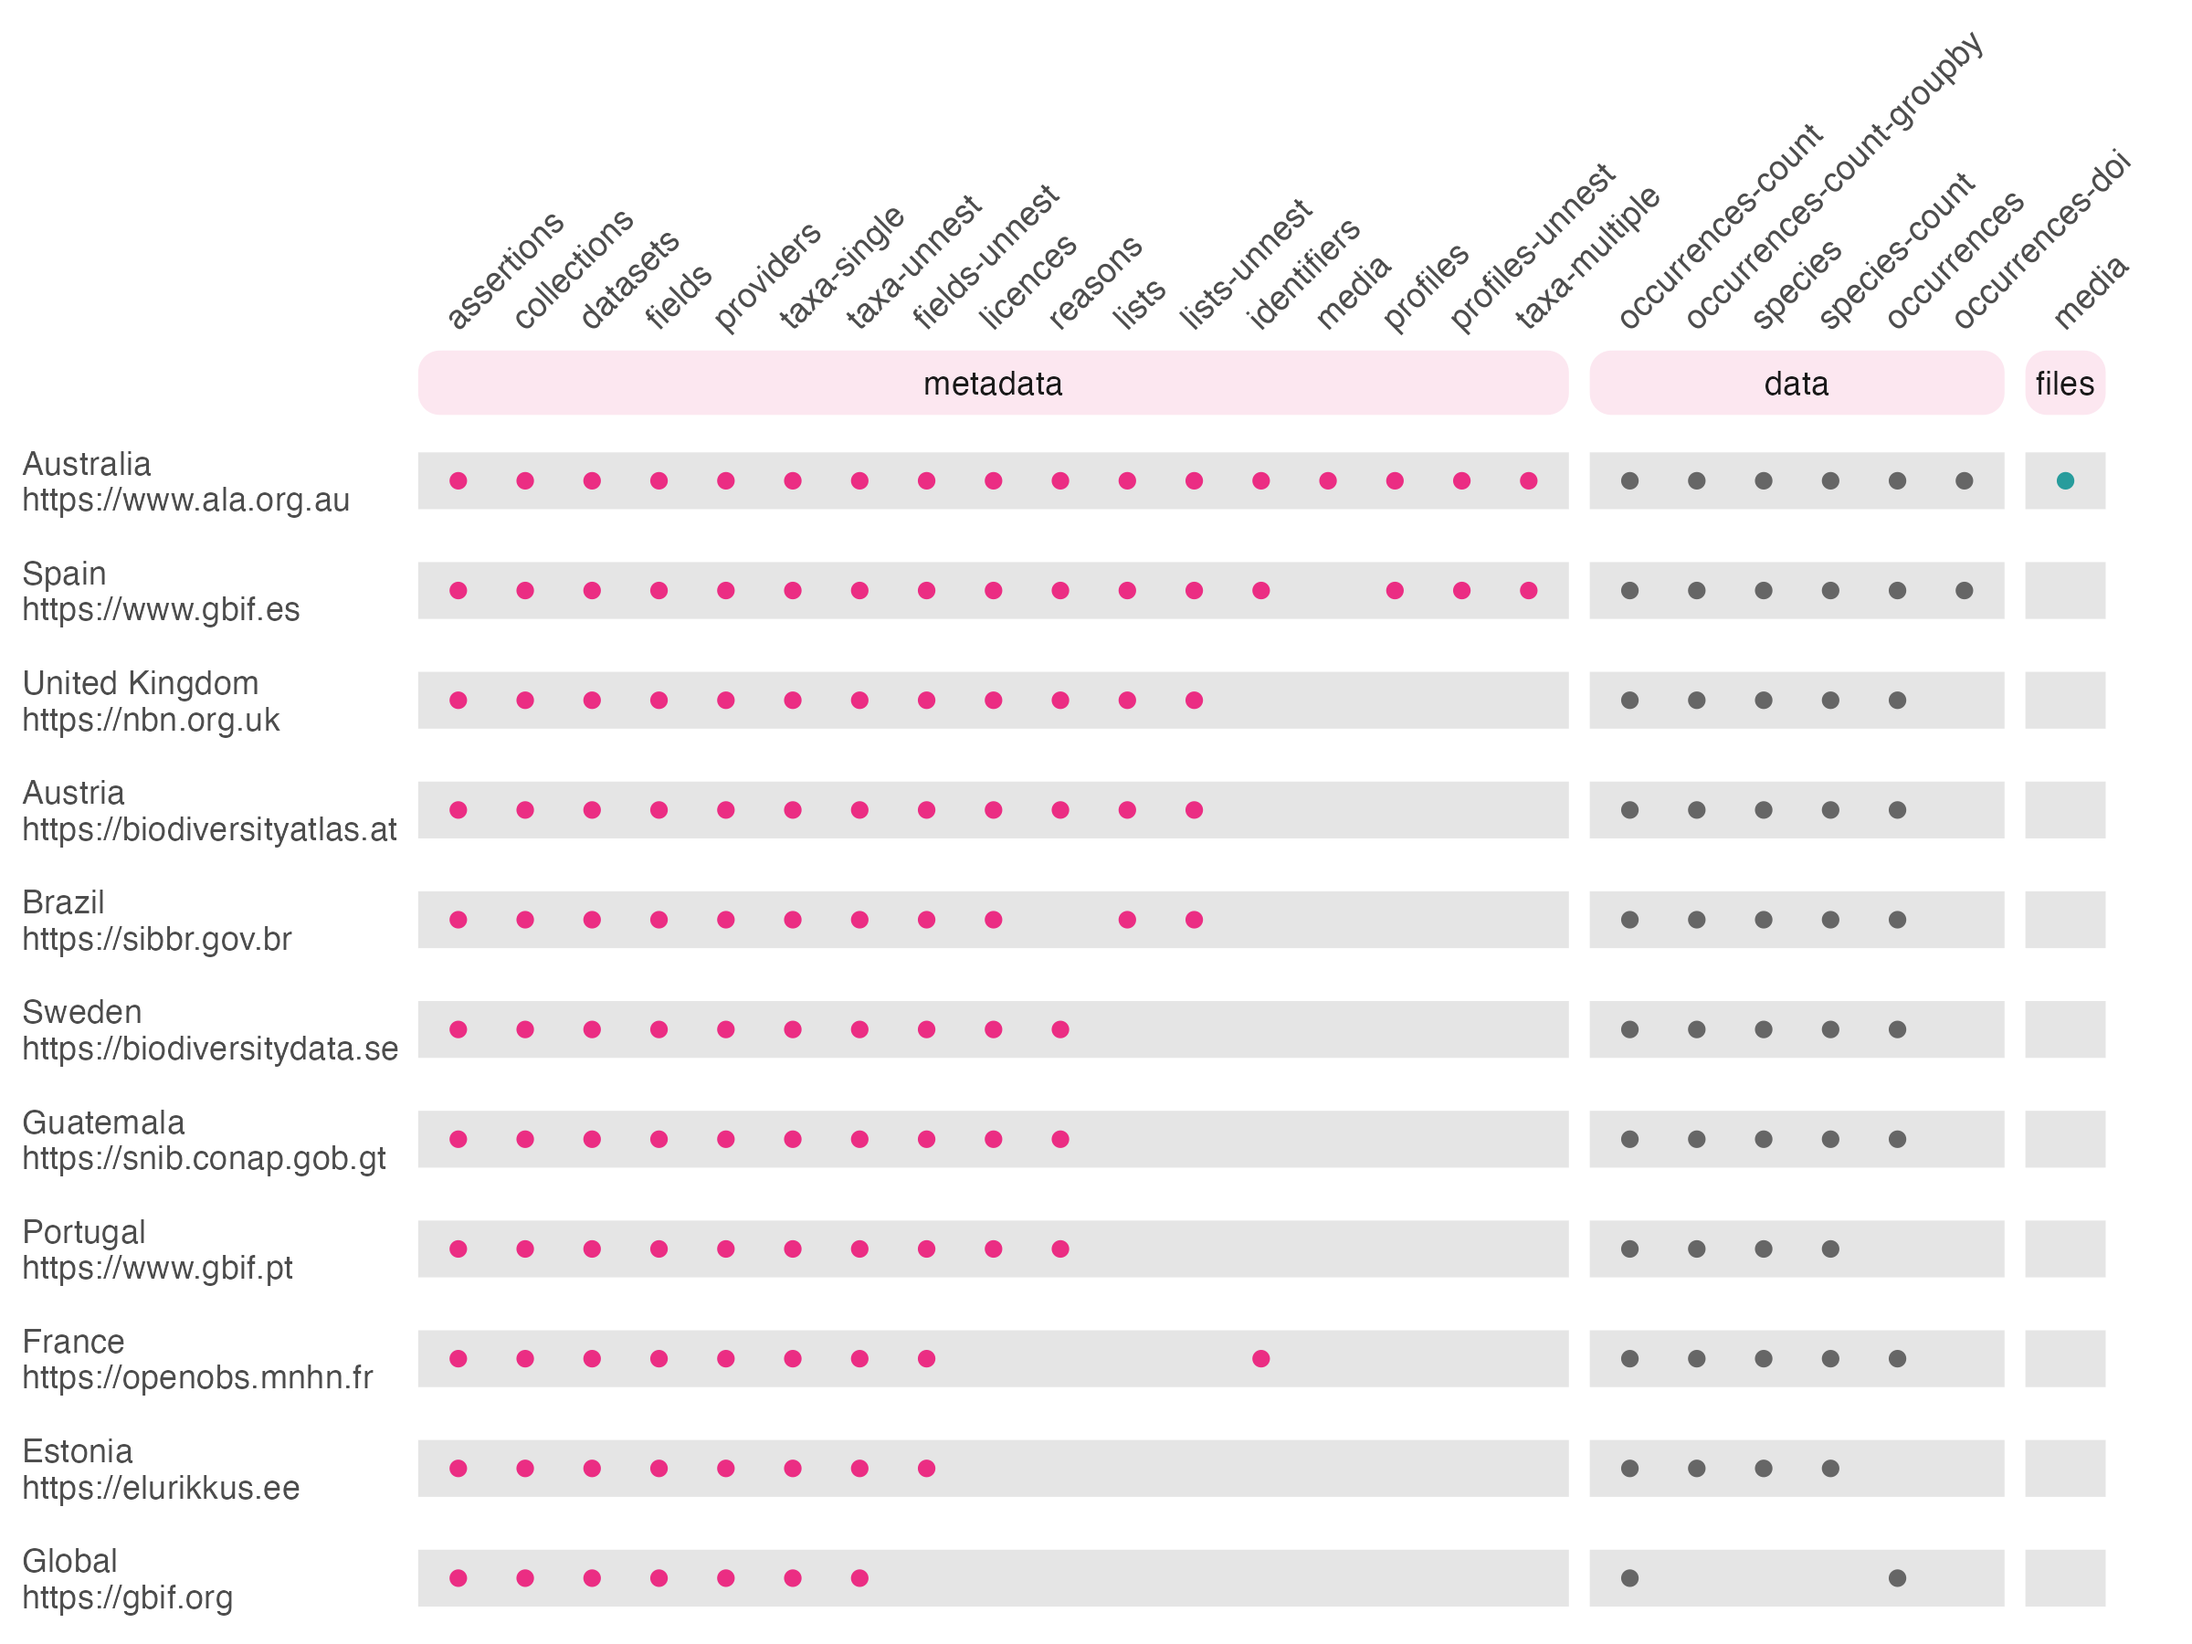
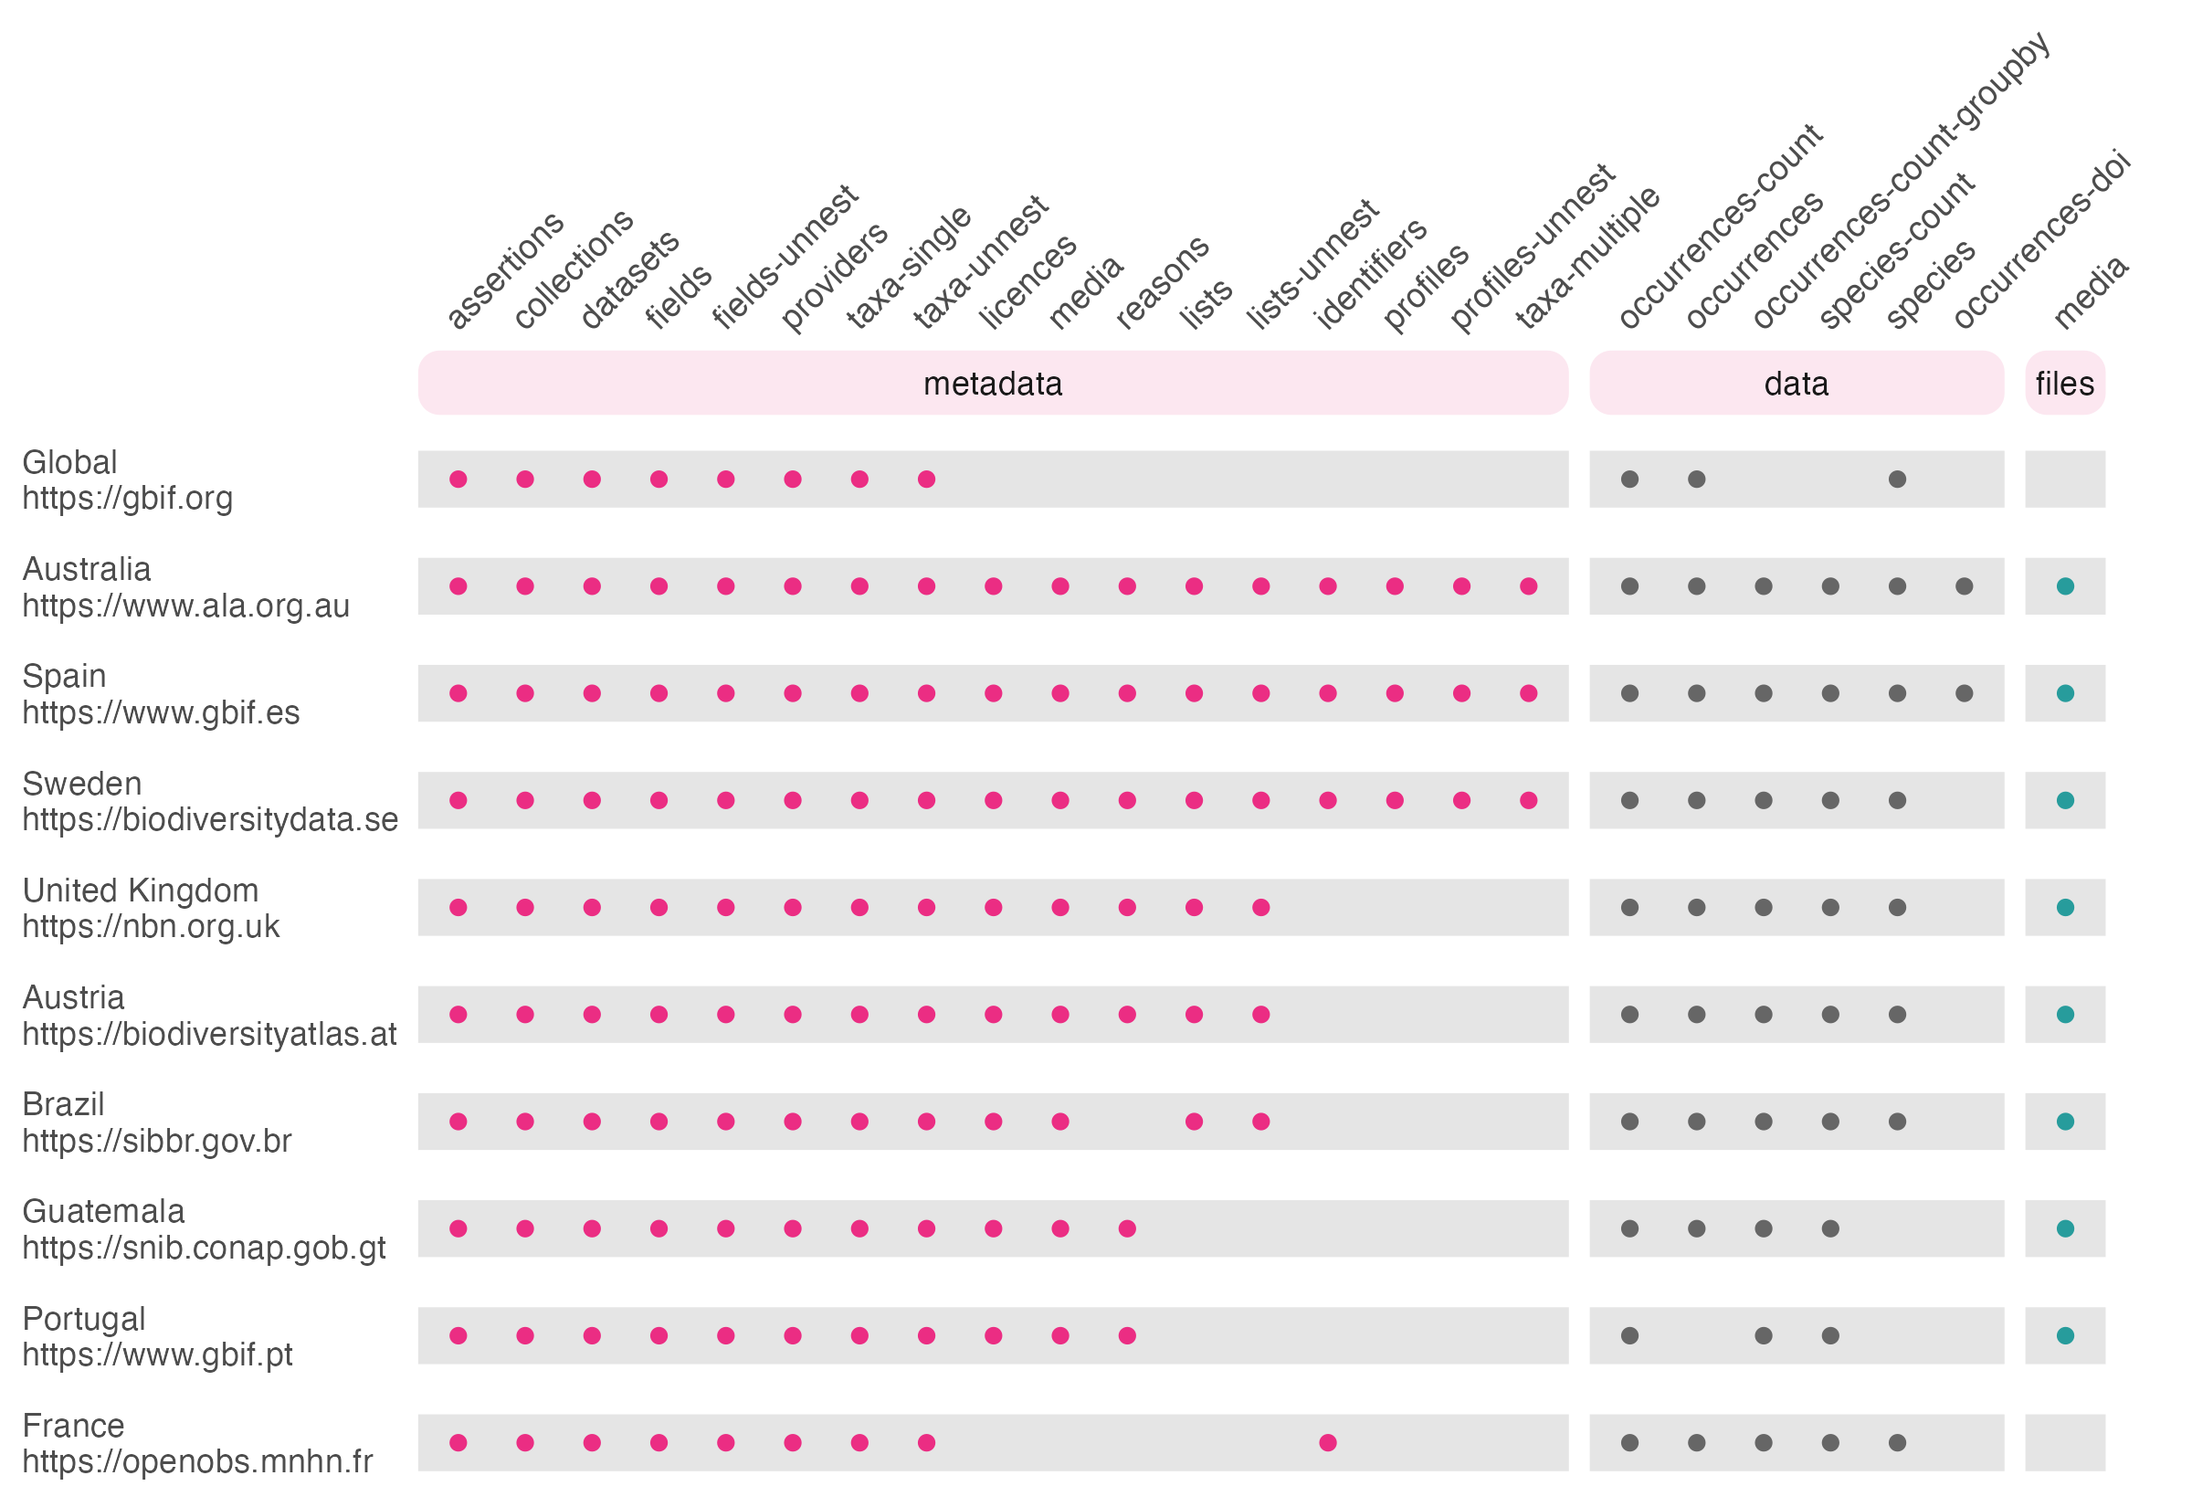
Finish updating other atlases
- swap next release to 2.1.0, not 2.0.3
- enable occurrences for France
- enable images for Austria
- remove `collect_media_metadata_GET()` as not required by any atlas
- update atlases plot

diff --git a/NEWS.md b/NEWS.md
@@ -1,14 +1,19 @@
-# galah 2.0.3
+# galah 2.1.0
+
+## Major improvements
+Support media downloads for all atlases except GBIF and France (for whom these APIs are not yet supported)
 
 ### Minor improvements
-* Support media downloads for most atlases (Brazil, Guatemala, Spain, Sweden and Portugal) in addition to ALA
+* Reorganise help files for improved clarity, largely following `dplyr` syntax
 * Support data profiles for Sweden and Spain
-* Update to new APIs from Austria (#231)
+* Temporarily remove Estonian atlas (https://elurikkus.ee) during system upgrades
+
+### Bug fixes
 * Species downloads (via `atlas_species()`) now work for Sweden, France, and Spain (#234)
-* `select()` now works for species downloads (i.e. via `atlas_species()`; #227)
-* reorganise help files for improved clarity
-* Swap to new ALA APIs (issue no.)
-* Fix bugs in filter, group by etc not recognising fields (FIX MEDIA FIRST)
+* `select()` now works for species downloads (i.e. via `atlas_species()`; #185, #227)
+* Swap to new APIs for Australia (#163) and Austria (#231, #242)
+* Fix bugs in `filter`, `group_by` etc. not recognising fields (#237)
+* Re-add taxonomic help under `?taxonomic_searches` (#241)
 
 # galah 2.0.2
 
